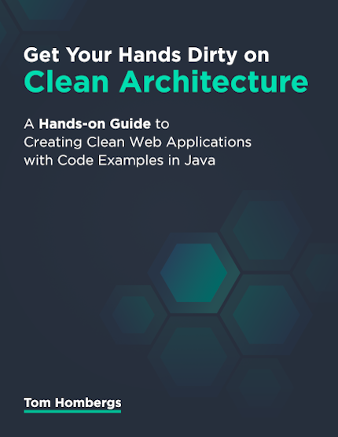
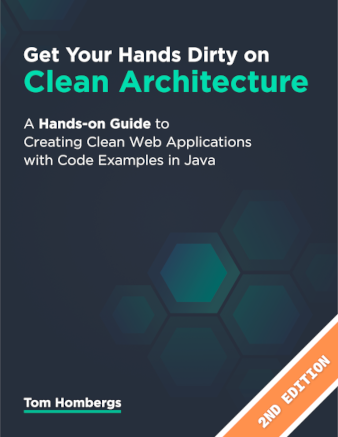
update to second edition

diff --git a/content/book.md b/content/book.md
@@ -1,5 +1,5 @@
 ---
-title: "Get Your Hands Dirty on Clean Architecture"
+title: "Get Your Hands Dirty on Clean Architecture (2nd edition)"
 description: "If you want to learn about clean and hexagonal architecture, you've come to the right place."
 layout: "static"
 draft: false
@@ -32,9 +32,9 @@ This book fills a void by providing a hands-on approach to the Hexagonal archite
     <i class="fa fa-star" style="color: #f8c200"></i>
     <i class="fa fa-star-half" style="color: #f8c200"></i> more than 150 reviews on <a
     href="https://www.amazon.com/gp/product/1839211962/ref=as_li_tl?ie=UTF8&amp;camp=1789&amp;creative=9325&amp;creativeASIN=1839211962&amp;linkCode=as2&amp;tag=reflectorin0c-20&amp;linkId=559e54b6599c4213252259df28d1d3e3">Amazon</a>
-    and <a href="https://www.goodreads.com/book/show/49238827-get-your-hands-dirty-on-clean-architecture">Goodreads</a>.
+    and <a href="https://www.goodreads.com/book/show/49238827-get-your-hands-dirty-on-clean-architecture">Goodreads</a> for the first edition.
 </li>
-<li>ebook available as 101-page .pdf, .epub, and .mobi on <a href="https://leanpub.com/get-your-hands-dirty-on-clean-architecture">Leanpub</a> and <a href="https://thombergs.gumroad.com/l/gyhdoca">Gumroad</a></li>
+<li>ebook available as .pdf and .epub on <a href="https://leanpub.com/get-your-hands-dirty-on-clean-architecture">Leanpub</a> and <a href="https://thombergs.gumroad.com/l/gyhdoca">Gumroad</a></li>
 <li>support me directly by paying more than the minimum price</li>
 <li>get updated versions immediately and for free</li>
 <li><strong>save $10</strong> if you subscribe to the <a href="/simplify">Simplify! newsletter</a></li>
@@ -65,14 +65,10 @@ This book fills a void by providing a hands-on approach to the Hexagonal archite
     <i class="fa fa-star" style="color: #f8c200"></i>
     <i class="fa fa-star-half" style="color: #f8c200"></i> rated 4.4 stars on <a href="https://www.amazon.com/gp/product/1839211962/ref=as_li_tl?ie=UTF8&camp=1789&creative=9325&creativeASIN=1839211962&linkCode=as2&tag=reflectorin0c-20&linkId=559e54b6599c4213252259df28d1d3e3">Amazon</a>.
 </li>
-<li>ebook and paperback (156 pages)</li>
-<li>ebook available as .pdf, .epub, and .mobi at <a href="https://www.packtpub.com/programming/get-your-hands-dirty-on-clean-architecture">Packt</a></li>
-<li>ebook available for Kindle at <a href="https://www.amazon.com/gp/product/1839211962/ref=as_li_tl?ie=UTF8&camp=1789&creative=9325&creativeASIN=1839211962&linkCode=as2&tag=reflectorin0c-20&linkId=559e54b6599c4213252259df28d1d3e3">Amazon</a></li>
-<li>available as NOOK book at <a href="https://www.barnesandnoble.com/w/get-your-hands-dirty-on-clean-architecture-tom-hombergs/1134180673?ean=9781839212710">Barnes & Noble</a></li>
+<li>ebook and paperback</li>
 </ul>
   </p>
-<a href="https://www.amazon.com/gp/product/1839211962/ref=as_li_tl?ie=UTF8&camp=1789&creative=9325&creativeASIN=1839211962&linkCode=as2&tag=reflectorin0c-20&linkId=559e54b6599c4213252259df28d1d3e3" class="btn btn-primary w-50 mb-2">Get it on Amazon</a>
-<a href="https://www.packtpub.com/programming/get-your-hands-dirty-on-clean-architecture" class="btn btn-primary w-50 mb-2">Get it at Packt</a>
+<a href="https://www.amazon.com/Your-Hands-Dirty-Clean-Architecture/dp/180512837X?keywords=get+your+hands+dirty+on+clean+architecture&amp;qid=1689324075&amp;sprefix=Get+Your+Hands+Dirty+on+Clean+,aps,424&amp;sr=8-2&_encoding=UTF8&tag=reflectorin0c-20&linkCode=ur2&linkId=c04a12e6dd6d399747b0cdce328650a5&camp=1789&creative=9325" class="btn btn-primary w-50 mb-2">Get it on Amazon</a>
   </div>
 </div>
 </div>
@@ -120,18 +116,21 @@ Manos Tzagkarakis - Java Developer at Datawise
 
 ## Table of Contents
 
-1. What's Wrong with Layers?
-2. Inverting Dependencies
-3. Organizing Code
-4. Implementing a Use Case
-5. Implementing a Web Adapter
-6. Implementing a Persistence Adapter
-7. Testing Architecture Elements
-8. Mapping Between Boundaries
-9. Assembling the Application
-10. Enforcing Architecture Boundaries
+1. Maintainability
+2. What's Wrong with Layers?
+3. Inverting Dependencies
+4. Organizing Code
+5. Implementing a Use Case
+6. Implementing a Web Adapter
+7. Implementing a Persistence Adapter
+8. Testing Architecture Elements
+9. Mapping Between Boundaries
+10. Assembling the Application
 11. Taking Shortcuts Consciously
-12. Deciding on an Architecture Style
+12. Enforcing Architecture Boundaries
+13. Managing Multiple Bounded Contexts
+14. A Component-Based Approach to Software Architecture
+15. Deciding on an Architecture Style
 
 ## Questions? Comments?
 
